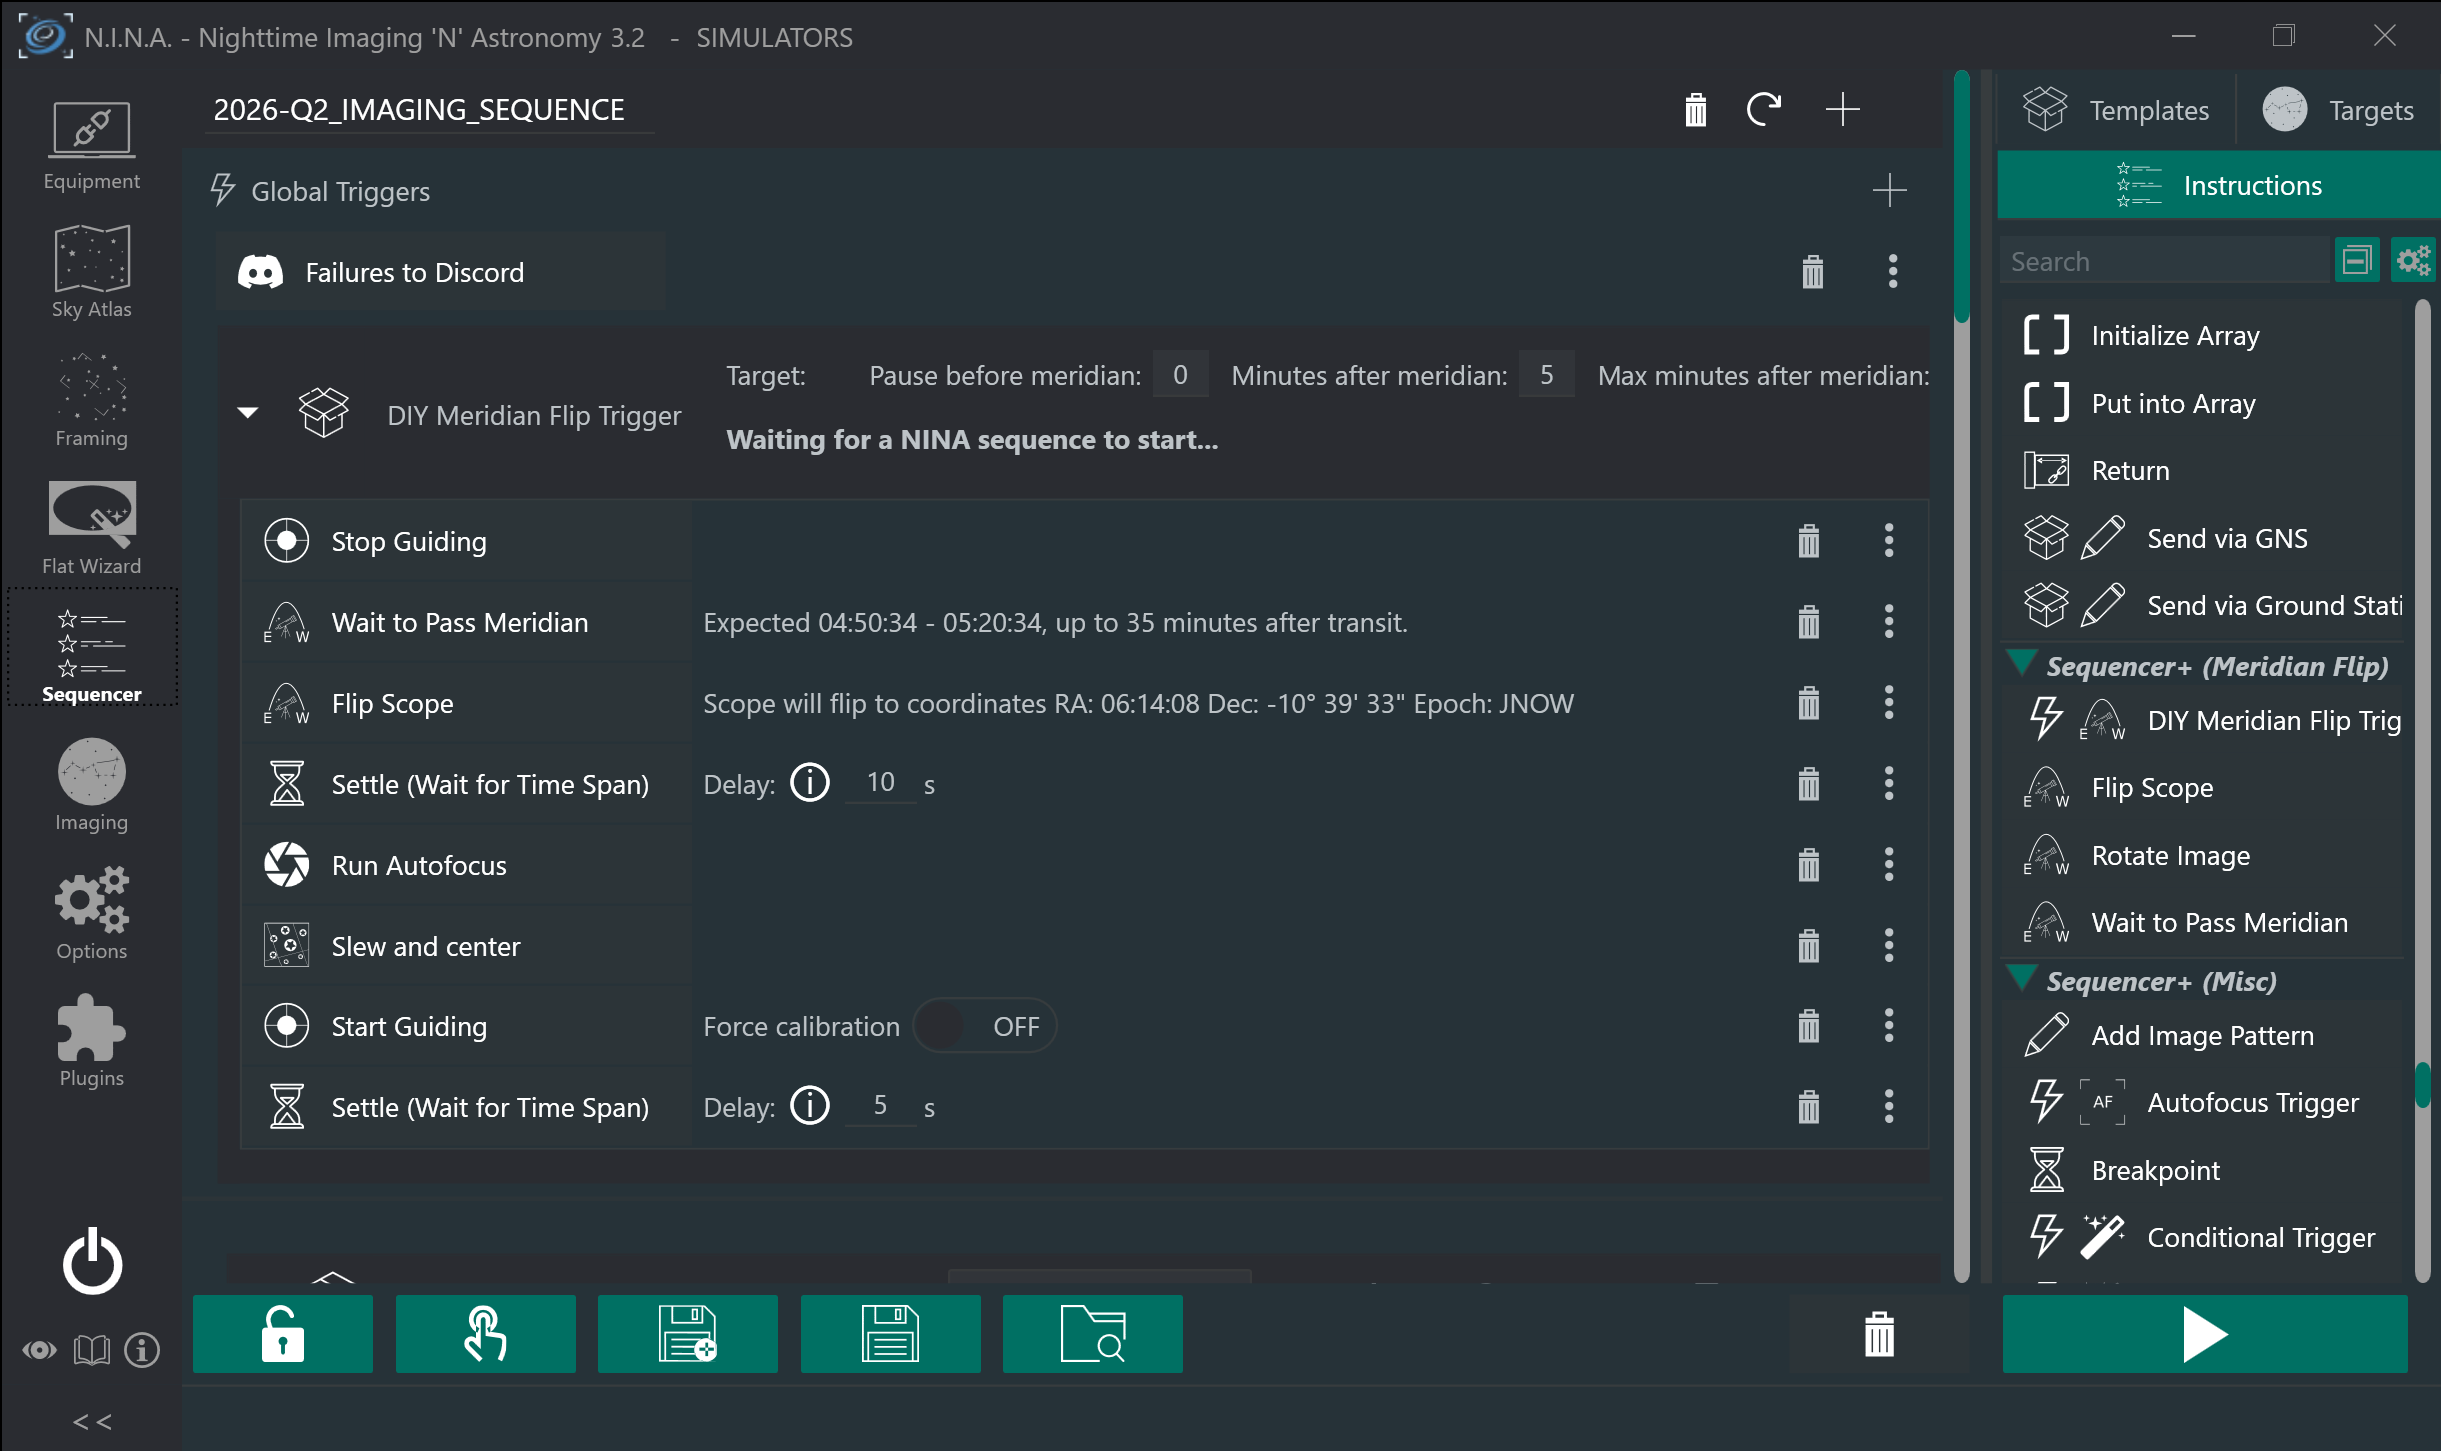
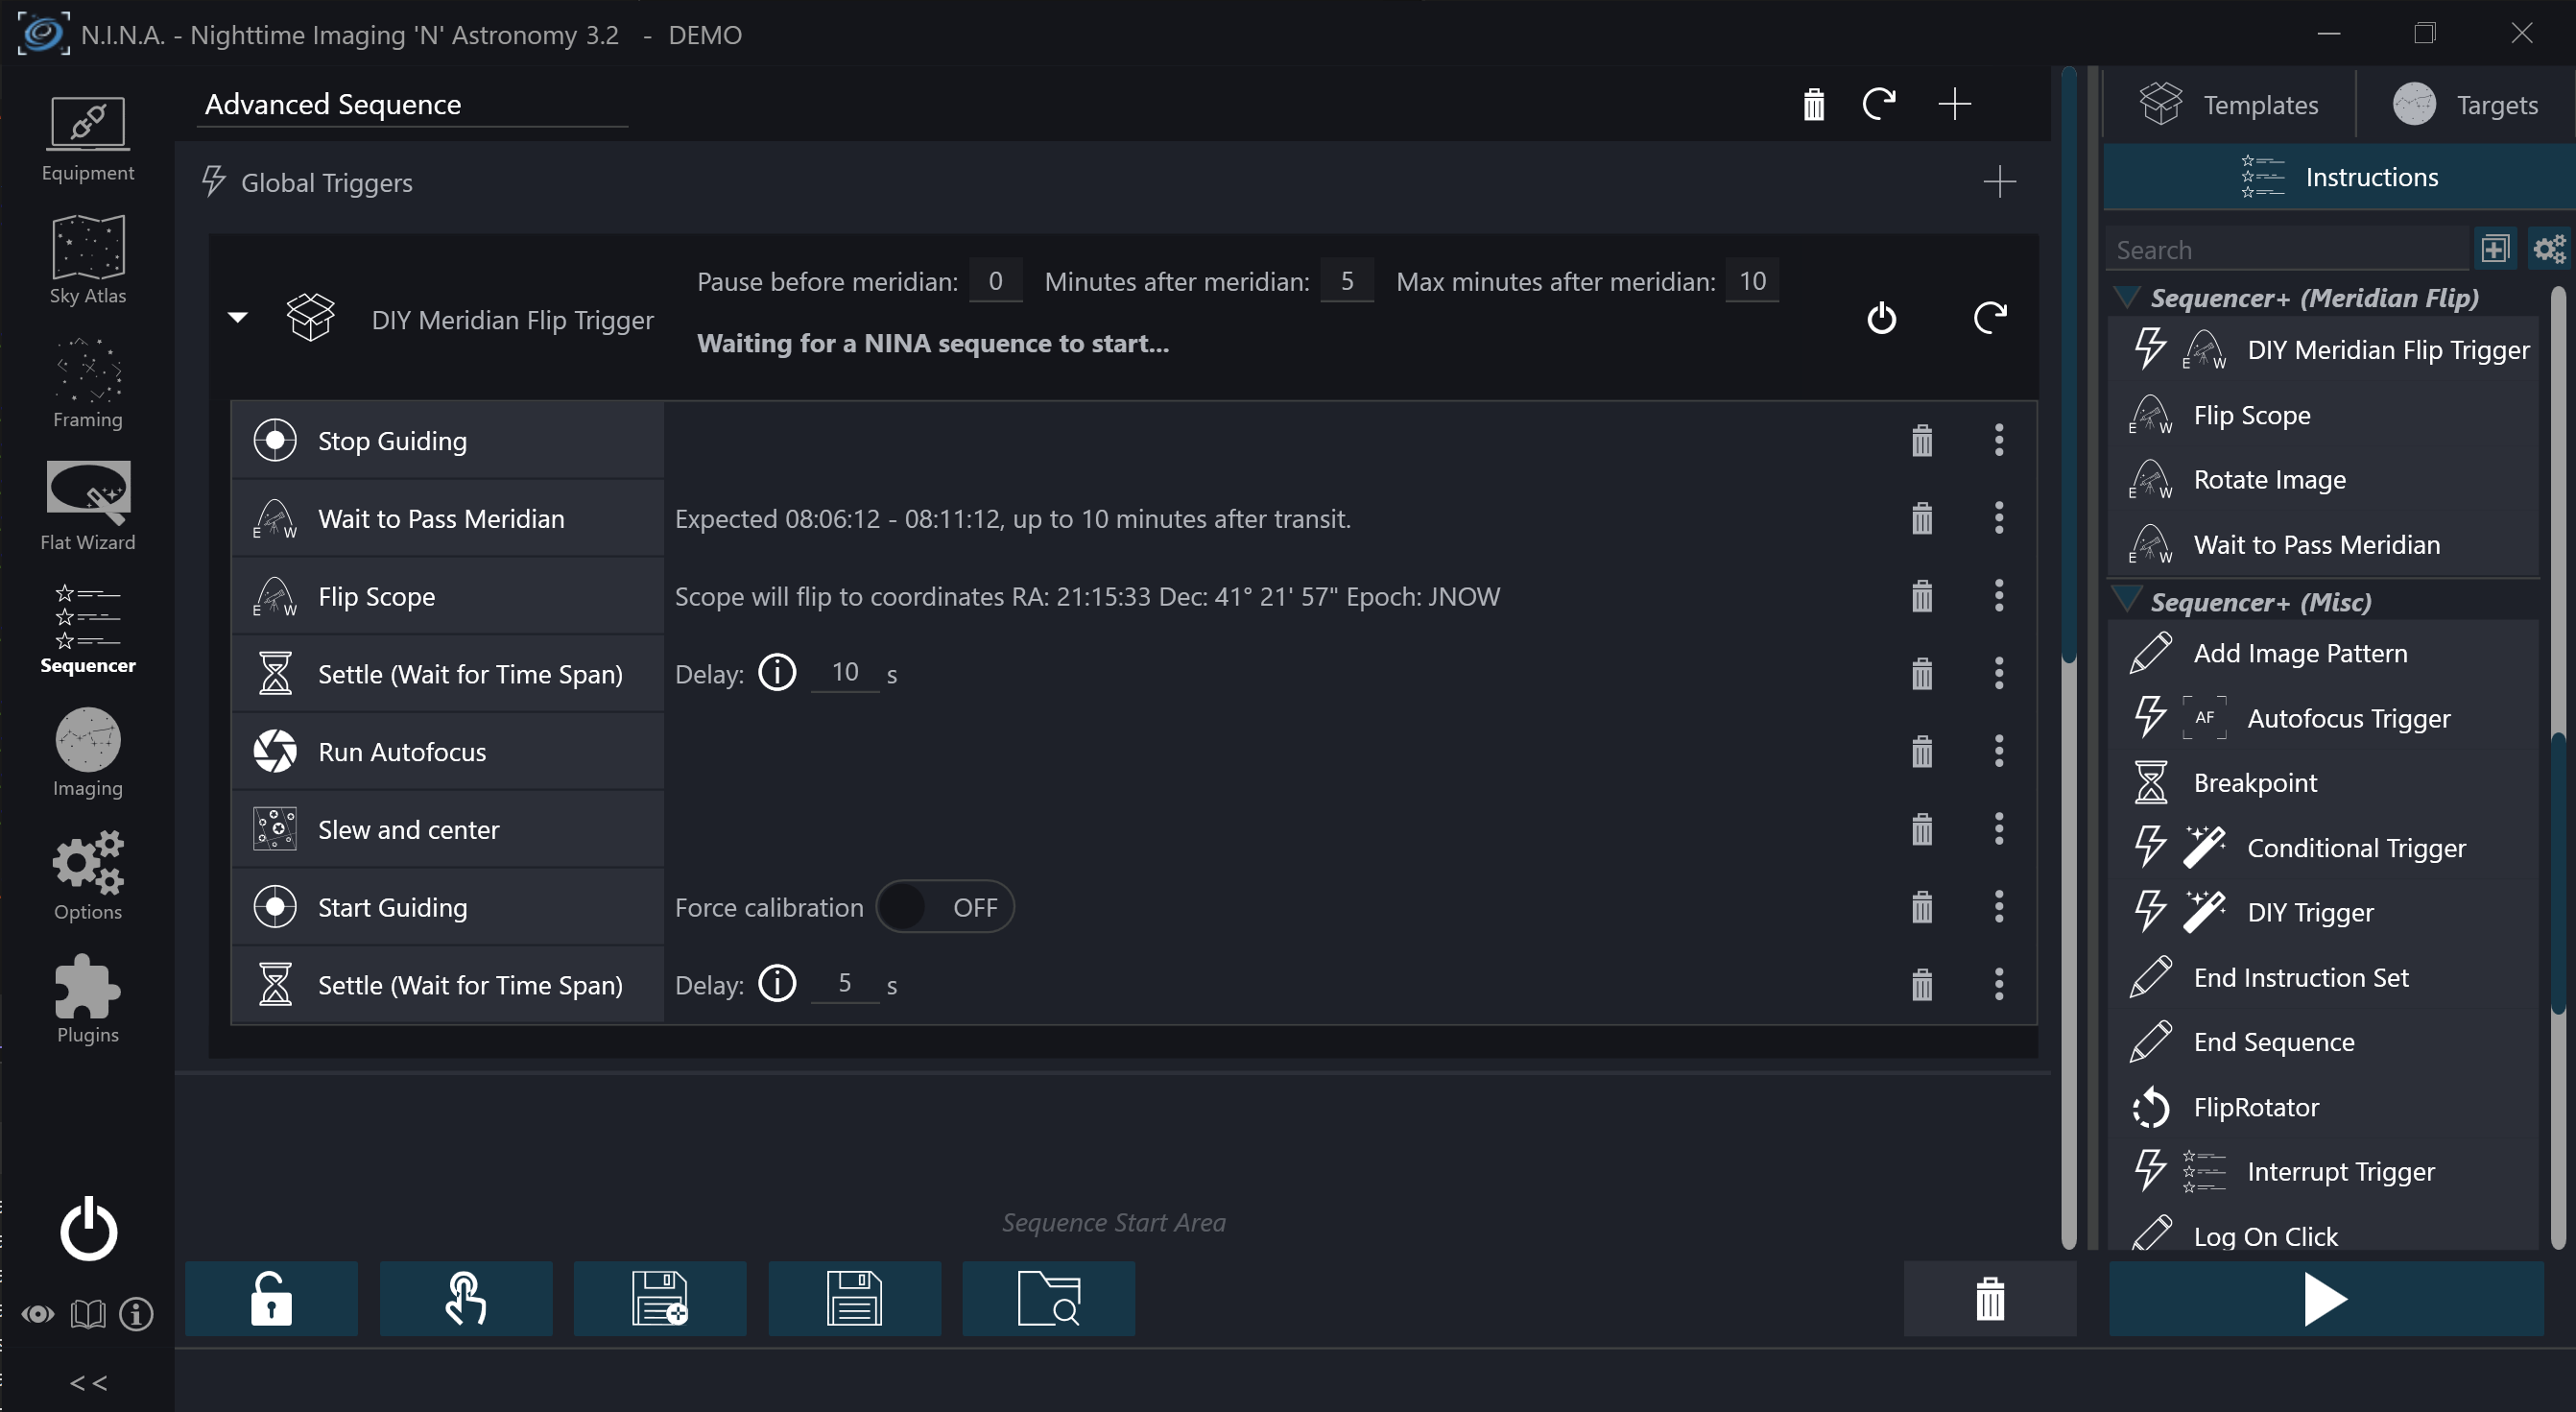
Added CHANGELOG, link to homepage/documentation, better description, better feature images

diff --git a/Properties/AssemblyInfo.cs b/Properties/AssemblyInfo.cs
@@ -1,68 +1,43 @@
 using System.Reflection;
 using System.Runtime.InteropServices;
 
-// [MANDATORY] The following GUID is used as a unique identifier of the plugin. Generate a fresh one for your plugin!
 [assembly: Guid("9bb66de3-b145-433c-b07b-1c432454817a")]
 
-// [MANDATORY] The assembly versioning
-//Should be incremented for each new release build of a plugin
-
-// Odd minor releases for Beta
 [assembly: AssemblyVersion("3.29.0.11")]
 [assembly: AssemblyFileVersion("3.29.0.11")]
 
-// [MANDATORY] The name of your plugingit st
 [assembly: AssemblyTitle("Sequencer+")]
-// [MANDATORY] A short description of your plugin
-//[assembly: AssemblyDescription("*** BETA RELEASE ***")]
-[assembly: AssemblyDescription("Get the most out of the Advanced Sequencer!")]
+[assembly: AssemblyDescription("Advanced Sequencer on steroids.\n" +
+    "Adds variables, expressions, conditional logic, reusable functions, safety triggers, DIY Meridian Flip, and enhanced(+) versions of standard NINA instructions to the Advanced Sequencer.")]
 
-// The following attributes are not required for the plugin per se, but are required by the official manifest meta data
-
-// Your name
 [assembly: AssemblyCompany(" Carl Björk (Elveteek Sàrl)")]
-// The product name that this plugin is part ofgit 
 [assembly: AssemblyProduct("SequencerPlus")] 
 [assembly: AssemblyCopyright("Copyright © 2026 Elveteek Sàrl - Carl Björk")]
 
-// The minimum Version of N.I.N.A. that this plugin is compatible withq
 [assembly: AssemblyMetadata("MinimumApplicationVersion", "3.2.0.9001")]
 
-// The license your plugin code is using
 [assembly: AssemblyMetadata("License", "MPL-2.0")]
-// The url to the license
 [assembly: AssemblyMetadata("LicenseURL", "https://www.mozilla.org/en-US/MPL/2.0/")]
-// The repository where your pluggin is hosted
 [assembly: AssemblyMetadata("Repository", "https://github.com/palmito9/Nina.SequencerPlus")]
+[assembly: AssemblyMetadata("ChangelogURL", "https://github.com/palmito9/Nina.SequencerPlus/blob/main/CHANGELOG.md")]
+[assembly: AssemblyMetadata("Homepage", "https://elveteek.ch/nina-plugins/sequencer-plus")]
 
-// The following attributes are optional for the official manifest meta data
-
-//[Optional] Common tags that quickly describe your plugin
 [assembly: AssemblyMetadata("Tags", "Sequencer,Utility,Constants,Variables,Expressions,Safety,Interrupt,If,When")]
 
-//[Optional] The url to a featured logo that will be displayed in the plugin list next to the name
 [assembly: AssemblyMetadata("FeaturedImageURL", "https://github.com/palmito9/Nina.SequencerPlus/blob/main/images/SequencerPlus_icon.png?raw=true")]
 [assembly: AssemblyMetadata("ScreenshotURL", "https://github.com/palmito9/Nina.SequencerPlus/blob/main/images/SequencerPlus_DIYMeridianFlip.png?raw=true")]
-//[Optional] An additional url to an example example screenshot of your plugin in action
 [assembly: AssemblyMetadata("AltScreenshotURL", "https://github.com/palmito9/Nina.SequencerPlus/blob/main/images/SequencerPlus_WhenUnsafe.png?raw=true")]
-//[Optional] An in-depth description of your plugin
 [assembly: AssemblyMetadata("LongDescription", @"## This plugin contains a variety of useful instructions that enhance the power of the Advanced Sequencer.  The set of these instructions is expected to increase over time; consider them 'utility' instructions.  Many of these instructions allow you to take arbitrary sets of actions when specific circumstances arise; you specify these actions by dragging instructions into place, just as you would to create any instruction set or template.
 
 ## Among the more powerful Sequencer+ instructions are those related to Constants, Variables, and Expressions, and the Template by Reference instruction.
 
 
-# Complete documentation for Sequencer+ will be available in the near future
+# Documentation draft for Sequencer+ is now available, check homepage.  This documentation is a work in progress, still many screenshots and details to be added, but it should give you a good idea of how to use the plugin and its various instructions.
 
 ## Comments, suggestions, bug reports, and feature requests are welcomed! You can reach me on the NINA Discord server or use the contact form at https://elveteek.ch. Please note that while I'll do my best to handle bugs, new features, and maintenance, I realistically won't have time for how-to questions — the NINA Discord community will be your best bet there.
 ")]
 
-// Setting ComVisible to false makes the types in this assembly not visible
-// to COM components.  If you need to access a type in this assembly from
-// COM, set the ComVisible attribute to true on that type.
 [assembly: ComVisible(false)]
-// [Unused]
 [assembly: AssemblyConfiguration("")]
-// [Unused]
 [assembly: AssemblyTrademark("")]
-// [Unused]
 [assembly: AssemblyCulture("")]

diff --git a/CHANGELOG.md b/CHANGELOG.md
@@ -1,4 +1,24 @@
-# When
+# Sequencer+ — Changelog
 
-## 1.0.0.1
-- Initial release
+## 3.29.0.11 — 2026-05-08
+
+**Bug fix**
+
+- Fixed: Assembly name written into converted sequence files was incorrect, causing Sequencer+ to fail to load those sequences. This affected files produced by the Sequencer Powerups → Sequencer+ conversion tool introduced in 3.29.0.10.
+
+---
+
+## 3.29.0.10 — 2026-05-08 — Community Recovery
+
+This is the first release of **Sequencer+**, a community-maintained continuation of the **Sequencer Powerups** plugin originally developed by Marc Blank and released under the Mozilla Public License 2.0.
+
+After Marc removed the plugin from the N.I.N.A. plugin repository and deleted the original GitHub repository, this project was reconstructed from a local clone of the original repository (v3.29.0.1) and the most recent released binary (v3.29.0.9). Changes introduced between those two versions were recovered by decompiling the v3.29.0.9 binary and diffing it against the cloned source.
+
+The plugin has been rebranded as **Sequencer+** to avoid conflicts with any future reappearance of the original plugin. All assemblies, namespaces, identifiers, and sequence file tags have been renamed accordingly.
+
+**What's included in this release**
+
+- Full feature set of Sequencer Powerups v3.29.0.9: variables, constants, expressions, control flow (If / Loop While / Wait Until / For Each), enhanced instructions (`+` variants), Template by Reference, Functions, Arrays, safety handling (When Becomes Unsafe / Once Safe), custom triggers (DIY Trigger, Autofocus Trigger, Interrupt Trigger), DIY Meridian Flip, External Script+, and additional utility instructions.
+- **Conversion tool** in the plugin options panel: migrates existing sequence files, targets, and templates between the Sequencer Powerups format and the Sequencer+ format in either direction (single file or folder, with optional sub-folder traversal).
+
+A complete archive of the original repository as it existed at v3.29.0.1, including all 51 branches, is attached to the initial recovery release on GitHub for historical reference.